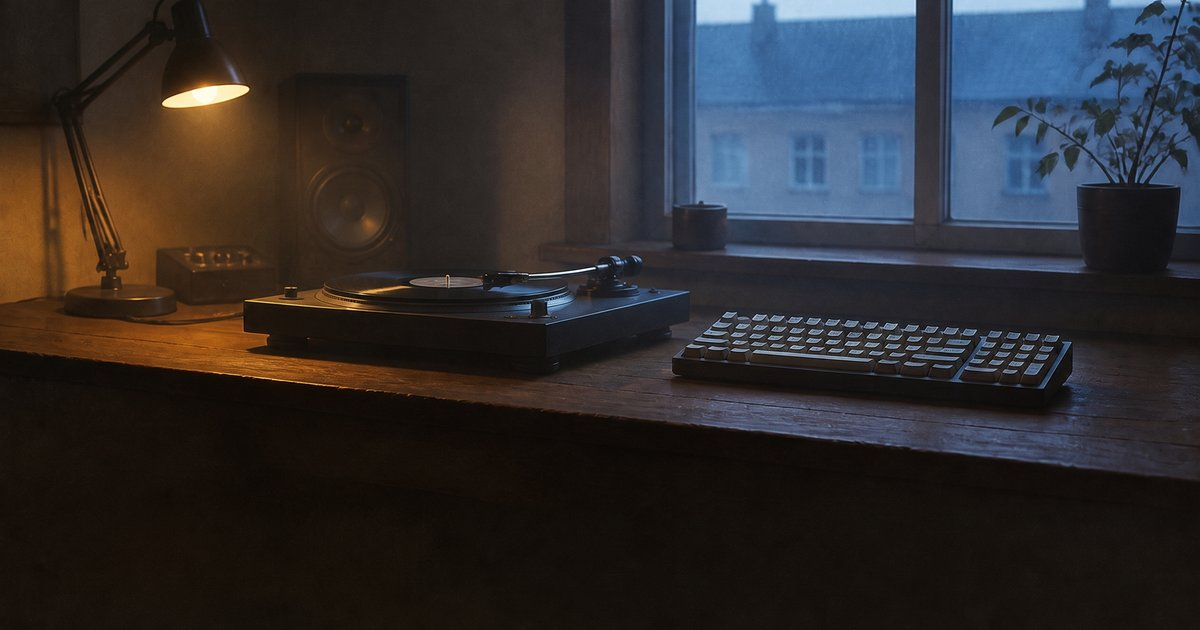
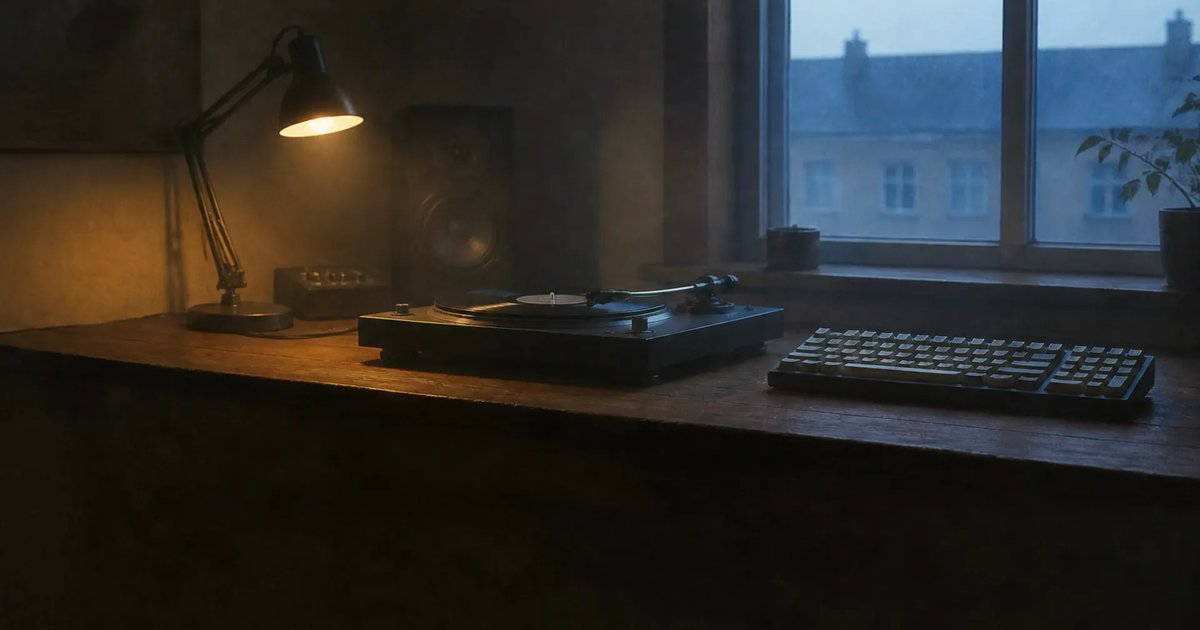
Chapter route nav, progress rail, dawn-blue hover accent
Right-edge chapter navigation with a progress hairline (ported from
the reference engine), shorter scrub track on mobile, hover states
moved to a dawn-blue sampled from the film's window light, language
toggle pinned inside the sticky stage, idle guard past the hero,
and the OG image re-derived from the film's first frame.

diff --git a/css/style.css b/css/style.css
@@ -4,7 +4,8 @@
   --bg-raise: #16130f;
   --text: #e7e0d4;
   --text-dim: #9c937f;
-  --accent: #c9924a; /* 히어로 사진에서 추출한 앰버 */
+  --accent: #c9924a; /* 히어로 사진에서 추출한 앰버 — 정체성·활성 상태 */
+  --accent-cool: #8fa8c0; /* 필름의 새벽 창 블루(#567ca2)를 대비 기준으로 밝힘 — 호버 상태 */
   --line: #2a251d;
   --serif: Georgia, "Times New Roman", "Noto Serif KR", serif;
   --sans: -apple-system, "Pretendard", "Apple SD Gothic Neo", "Malgun Gothic", "Noto Sans KR", "Helvetica Neue", sans-serif;
@@ -32,6 +33,10 @@ a { color: inherit; text-decoration: none; }
 }
 /* 스크럽 모드(JS가 켬): 히어로가 스크롤 트랙이 되고 스테이지는 화면에 고정 */
 .scrub-on .hero { height: 380vh; }
+/* 모바일은 플릭 스크롤 특성상 트랙을 짧게 (기법의 의도된 저하) */
+@media (hover: none) and (pointer: coarse), (max-width: 860px) {
+  .scrub-on .hero { height: 260vh; }
+}
 .scrub-on .hero-stage {
   position: sticky; top: 0;
   min-height: 0; height: 100vh; height: 100svh;
@@ -42,6 +47,29 @@ a { color: inherit; text-decoration: none; }
   opacity: 0; transition: opacity 0.35s ease;
 }
 .hero-stage[data-video-painted="true"] .scrub-video { opacity: 1; }
+/* 챕터 내비 + 진행 레일 (스크럽 모드에서만) */
+.route {
+  position: absolute; right: 26px; top: 50%; transform: translateY(-50%); z-index: 4;
+  display: none; flex-direction: column; gap: 16px; align-items: flex-end;
+}
+.scrub-on .route { display: flex; }
+.route::before { /* 진행 트랙 */
+  content: ""; position: absolute; right: -13px; top: -2px; bottom: -2px; width: 1px;
+  background: rgba(231, 224, 212, 0.18);
+}
+.route::after { /* 진행 채움 — 스크럽 진행도를 따라감 */
+  content: ""; position: absolute; right: -13px; top: -2px; width: 1px; height: calc(100% + 4px);
+  background: var(--accent);
+  transform: scaleY(var(--scrub-progress, 0)); transform-origin: top;
+}
+.route button {
+  background: none; border: none; cursor: pointer; padding: 2px 0;
+  font-family: var(--mono); font-size: 0.58rem; letter-spacing: 0.18em; text-transform: uppercase;
+  color: var(--text-dim); opacity: 0.75;
+}
+.route button:hover { color: var(--accent-cool); opacity: 1; }
+.route button[aria-current="step"] { color: var(--accent); opacity: 1; }
+
 .scroll-hint {
   position: absolute; left: 50%; transform: translateX(-50%); bottom: 14px; z-index: 3;
   margin: 0; font-family: var(--mono); font-size: 0.58rem; letter-spacing: 0.32em;
@@ -92,14 +120,14 @@ a { color: inherit; text-decoration: none; }
   font-family: var(--mono); font-size: 0.8rem; letter-spacing: 0.05em;
   border-bottom: 1px solid rgba(231, 224, 212, 0.35); padding-bottom: 2px;
 }
-.links a:hover { color: var(--accent); border-color: var(--accent); }
+.links a:hover { color: var(--accent-cool); border-color: var(--accent-cool); }
 .langsw {
   position: absolute; top: 22px; right: 26px; z-index: 4;
   font-family: var(--mono); font-size: 0.75rem; letter-spacing: 0.06em;
   background: none; border: none; color: var(--text-dim); cursor: pointer; padding: 6px 4px;
 }
 .langsw b { color: #f2ecdf; font-weight: 600; }
-.langsw:hover { color: var(--accent); }
+.langsw:hover { color: var(--accent-cool); }
 
 /* ── 공통 섹션 ── */
 section { max-width: 980px; margin: 0 auto; padding: 72px 28px 0; }
@@ -122,7 +150,7 @@ section h2::after { content: ""; display: block; width: 44px; border-top: 1px so
   color: var(--text-dim); border-bottom: 1px solid transparent;
 }
 .filters button.on { color: var(--accent); border-color: var(--accent); }
-.filters button:hover { color: var(--accent); }
+.filters button:hover { color: var(--accent-cool); }
 .grid { display: grid; grid-template-columns: repeat(auto-fill, minmax(260px, 1fr)); gap: 20px; }
 .proj { border: 1px solid var(--line); border-radius: 3px; background: var(--bg-raise); display: flex; flex-direction: column; }
 .proj .thumb { aspect-ratio: 16/9; background: #131610; border-bottom: 1px solid var(--line); overflow: hidden; }
@@ -130,7 +158,7 @@ section h2::after { content: ""; display: block; width: 44px; border-top: 1px so
 .proj .thumb.ph { background: repeating-linear-gradient(45deg, #14110d 0 10px, #110f09 10px 20px); }
 .proj .body { padding: 16px 18px 18px; }
 .proj h3 { margin: 0 0 2px; font-family: var(--serif); font-size: 1.15rem; font-weight: 600; }
-.proj h3 a:hover { color: var(--accent); }
+.proj h3 a:hover { color: var(--accent-cool); }
 .proj h3 .ext { font-family: var(--mono); font-size: 0.7em; color: var(--text-dim); }
 .proj .status { font-family: var(--mono); font-size: 0.62rem; color: var(--accent); letter-spacing: 0.08em; }
 .proj p { margin: 8px 0 12px; font-size: 0.86rem; color: var(--text-dim); line-height: 1.65; }
@@ -145,4 +173,4 @@ footer {
   display: flex; justify-content: space-between; flex-wrap: wrap; gap: 10px;
 }
 footer a { color: #857d68; }
-footer a:hover { color: var(--accent); }
+footer a:hover { color: var(--accent-cool); }

diff --git a/js/scrub.js b/js/scrub.js
@@ -26,13 +26,25 @@
   var chapters = stage.querySelectorAll('.chapter');
   var bounds = [0, 0.22, 0.5, 0.78];
   var activeCh = 0;
+  var routeBtns = stage.querySelectorAll('.route button');
 
   function setChapter(i) {
     if (i === activeCh || !chapters[i]) return;
     if (chapters[activeCh]) chapters[activeCh].classList.remove('on');
     chapters[i].classList.add('on');
+    if (routeBtns[activeCh]) routeBtns[activeCh].removeAttribute('aria-current');
+    if (routeBtns[i]) routeBtns[i].setAttribute('aria-current', 'step');
     activeCh = i;
   }
+
+  routeBtns.forEach(function (btn, i) {
+    btn.addEventListener('click', function () {
+      /* 챕터 시작점보다 살짝 안쪽으로 점프 */
+      var p = Math.min(bounds[i] + 0.04, 0.999);
+      window.scrollTo({ top: rootTop + p * total, behavior: 'smooth' });
+    });
+  });
+  if (routeBtns[0]) routeBtns[0].setAttribute('aria-current', 'step');
 
   function layout() {
     var pageY = window.scrollY || window.pageYOffset;
@@ -90,6 +102,11 @@
   function tick() {
     var y = (window.scrollY || window.pageYOffset) - rootTop;
     target = Math.min(1, Math.max(0, y / total));
+    /* 히어로를 한 화면 이상 지나면 시킹·챕터 연산을 쉰다 */
+    if (y > total + window.innerHeight) {
+      window.requestAnimationFrame(tick);
+      return;
+    }
     if (video && ready && !video.seeking) {
       current += (target - current) * 0.2;
       var t = Math.min(0.999, Math.max(0, current)) * (video.duration || 1);

diff --git a/index.html b/index.html
@@ -20,11 +20,16 @@
 </head>
 <body>
 
-<button class="langsw" id="langsw" aria-label="Switch language"><b>EN</b> | KO</button>
-
 <header class="hero">
   <div class="hero-stage">
     <img class="art" src="assets/img/hero.webp" alt="" fetchpriority="high" onerror="this.style.display='none'">
+    <button class="langsw" id="langsw" aria-label="Switch language"><b>EN</b> | KO</button>
+    <nav class="route" id="route" aria-label="Chapters">
+      <button type="button">Intro</button>
+      <button type="button">Music</button>
+      <button type="button">Code</button>
+      <button type="button">Say hi</button>
+    </nav>
     <div class="inner">
       <div class="chapter on">
         <h1>Serendibeats</h1>
